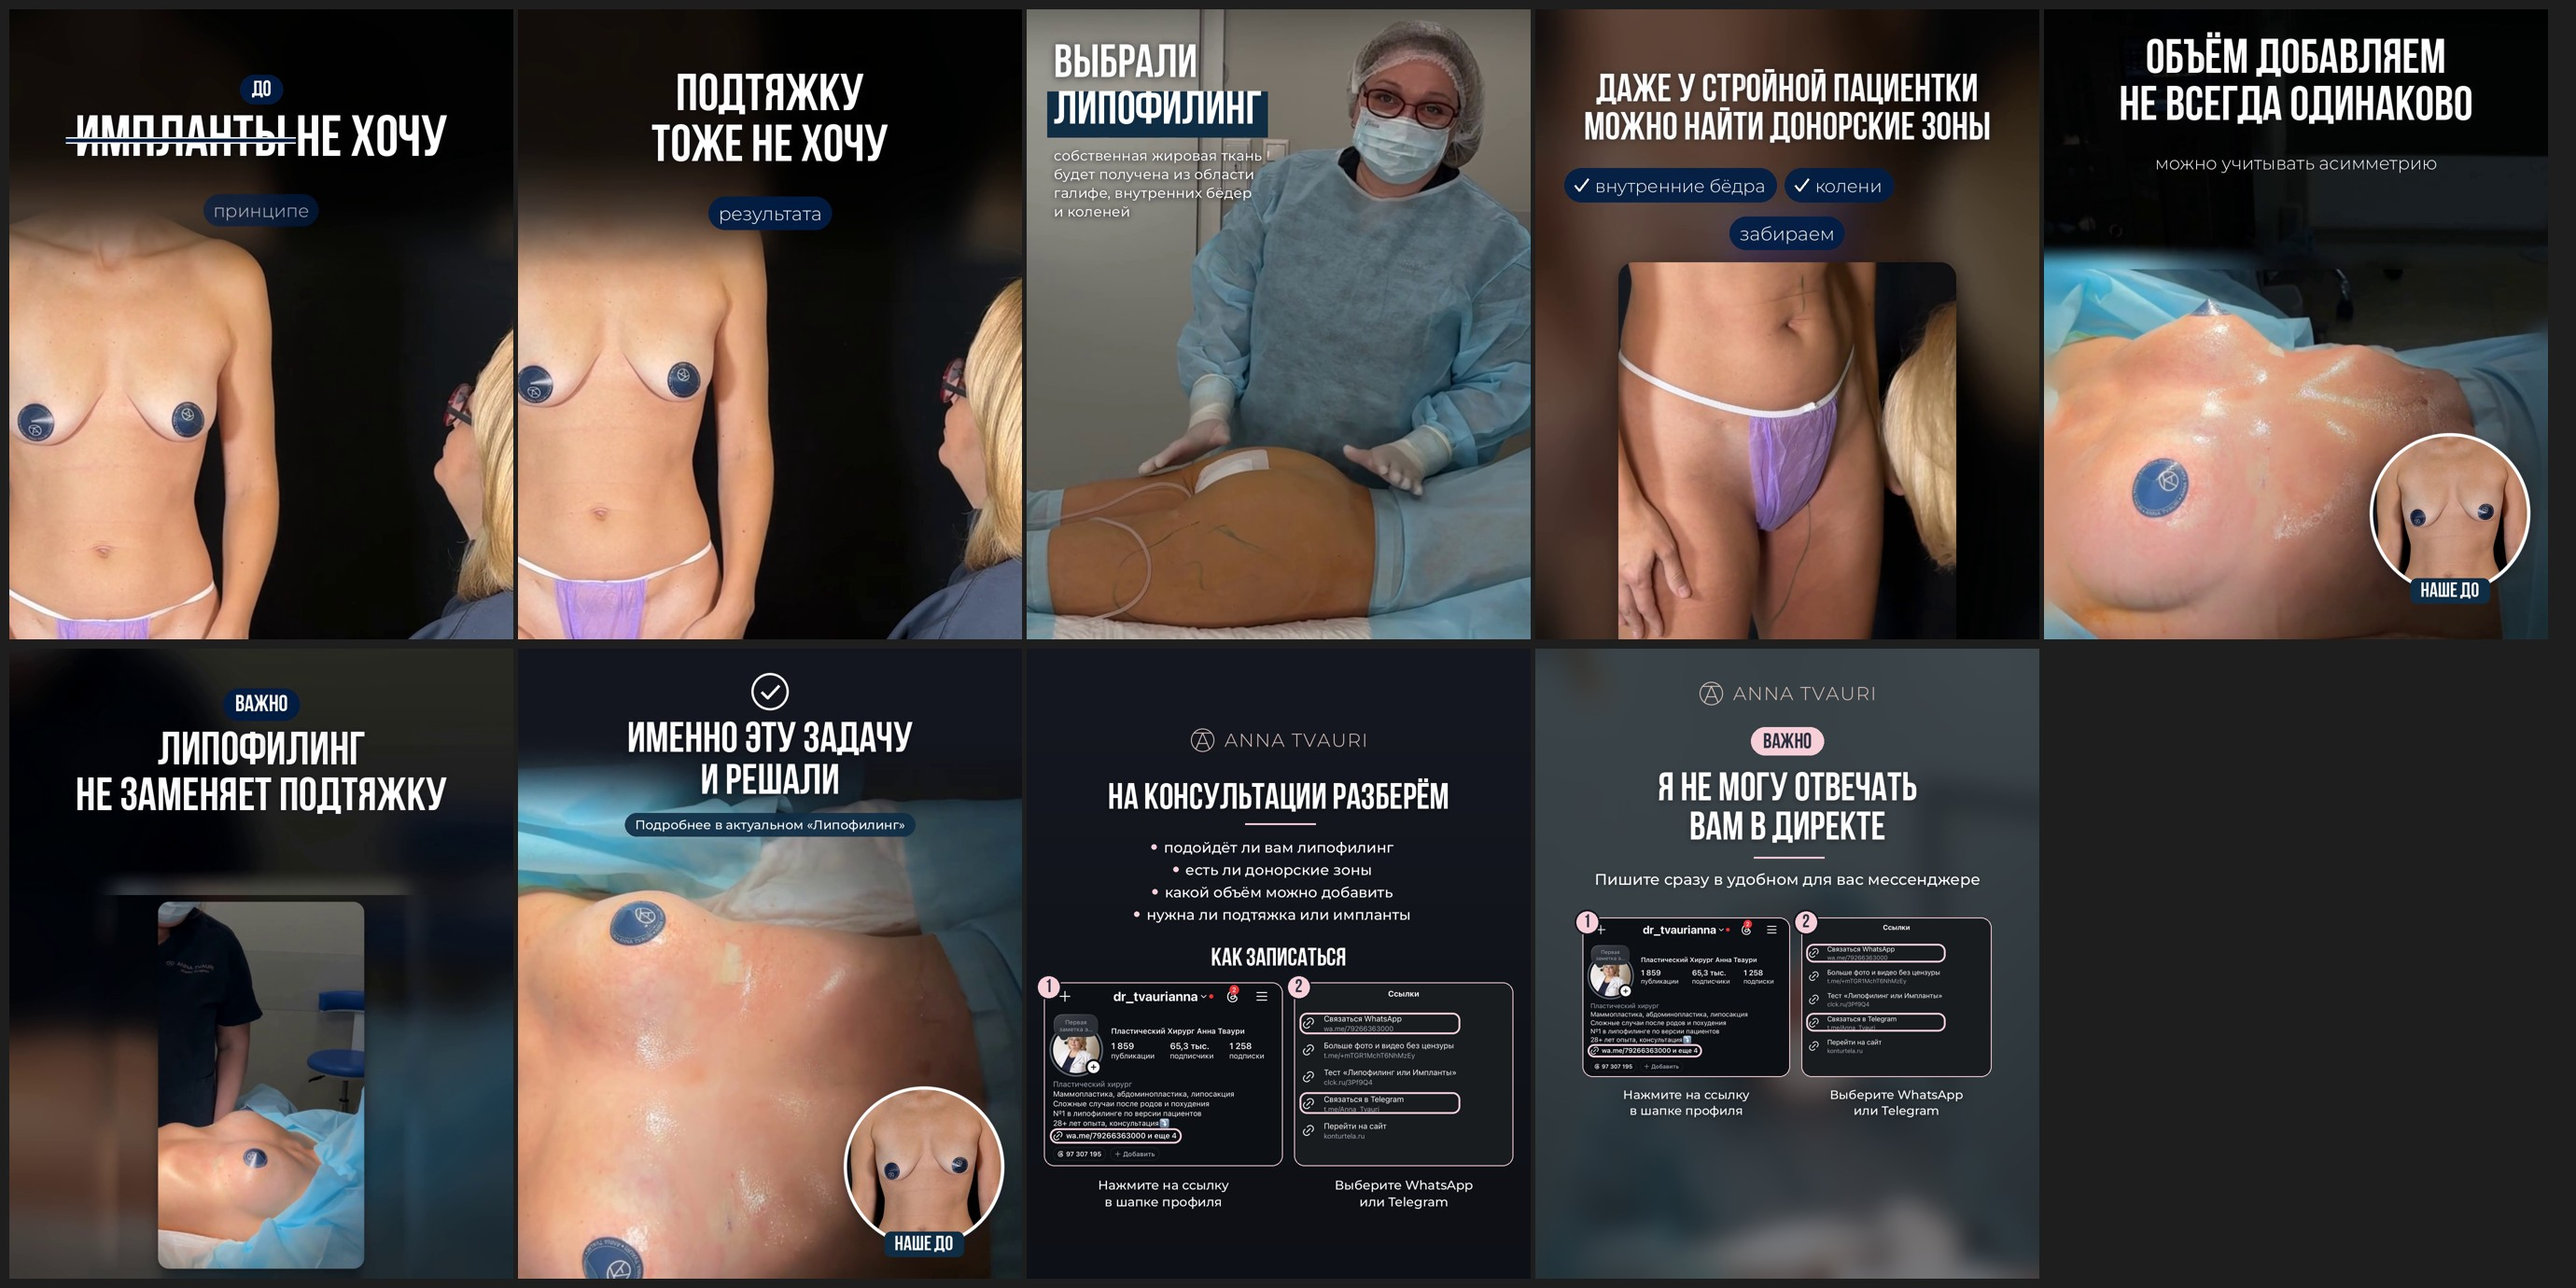
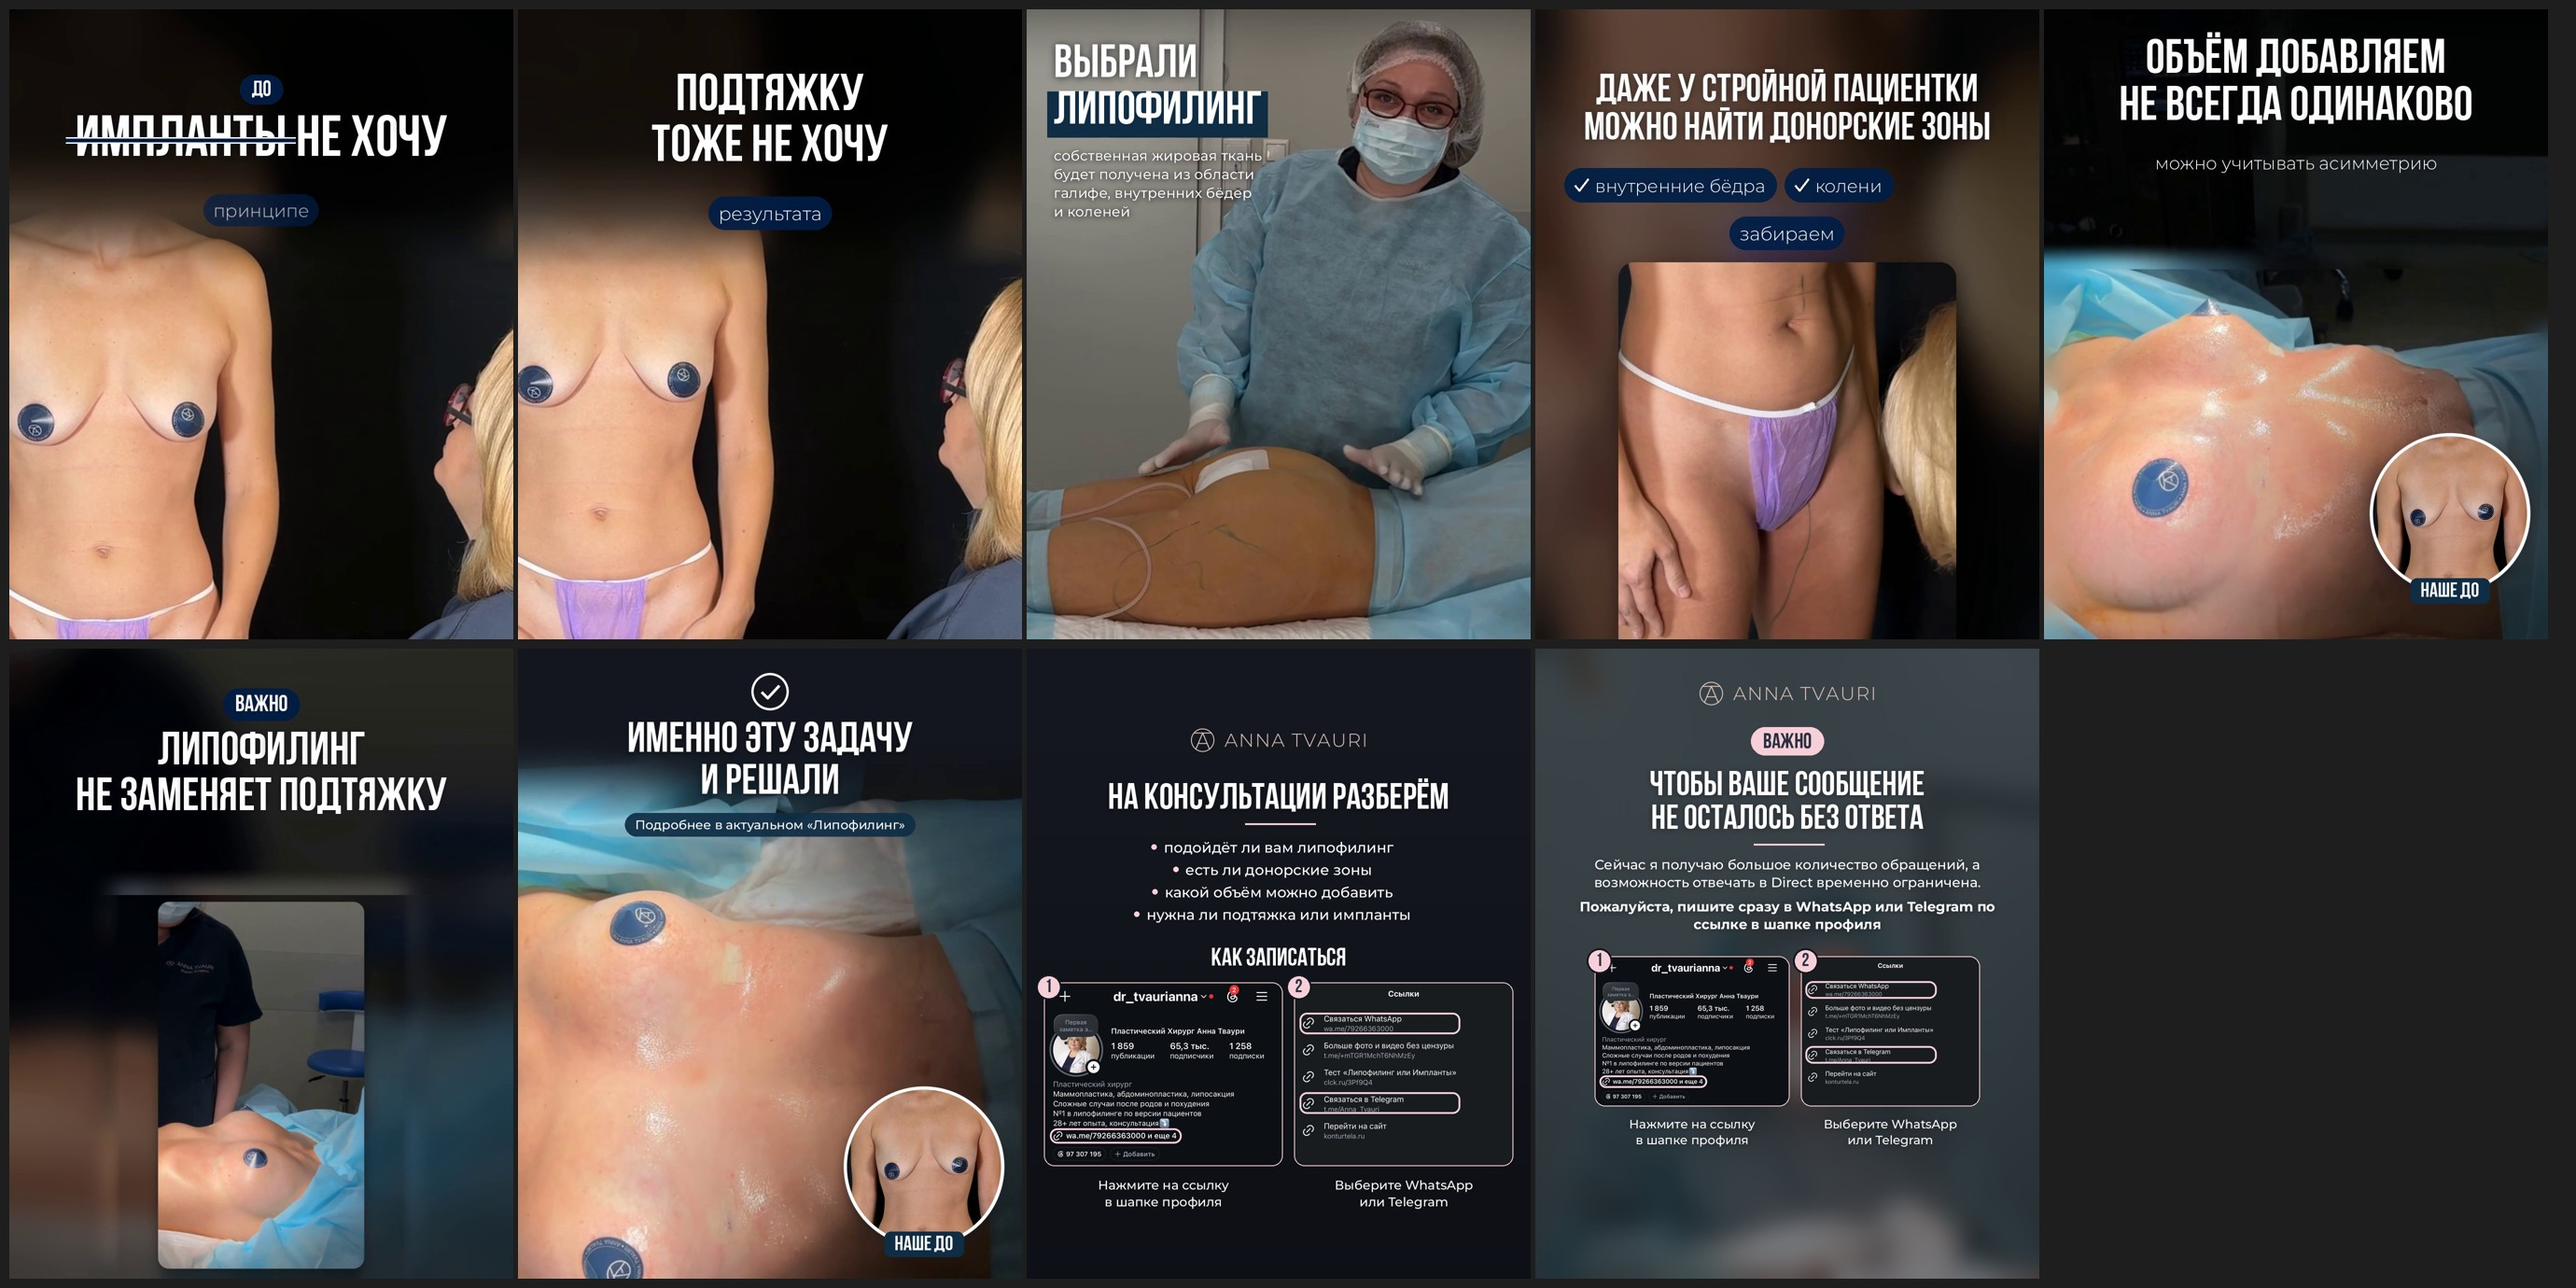
Lipofilling carousel: slide 9 new copy (so your message gets an answer)
Claude-Session: https://claude.ai/code/session_01XB7jWmRDxB52StXcRzXaWE

Changed region(s): [[0.592, 0.592, 0.779, 0.9036]]

diff --git a/tools/carousel_lipofilling.py b/tools/carousel_lipofilling.py
@@ -268,9 +268,11 @@ def important():
     f = ct.bebas(46); t = "ВАЖНО"; tw = f.getlength(t); y = 168
     d.rounded_rectangle(((W - tw) / 2 - 26, y, (W + tw) / 2 + 26, y + 60), radius=30, fill=LILAC_D + (255,))
     d.text((W / 2, y + 33), t, font=f, fill=ct.INK, anchor="mm")
-    y = ct.Block(W - 2 * ct.MARGIN, "center").head("Я не могу отвечать\nвам в директе", 86, 18).rule(0.14, 24) \
-        .body("Пишите сразу в удобном для вас мессенджере", 33, 0).draw(c, ct.MARGIN, y + 92)
-    y = booking_steps(c, y + 60)
+    y = ct.Block(W - 2 * ct.MARGIN + 40, "center").head("Чтобы ваше сообщение\nне осталось без ответа", 74, 16).rule(0.14, 22) \
+        .body("Сейчас я получаю большое количество обращений, а возможность отвечать в Direct временно ограничена.", 29, 14) \
+        .body("Пожалуйста, пишите сразу в WhatsApp или Telegram по ссылке в шапке профиля", 29, 0, wght=700) \
+        .draw(c, ct.MARGIN - 20, y + 90)
+    y = booking_steps(c, y + 50, hgt=320)
     ct.save_jpg(c, f"{OUT}/09_important.jpg")  # free space below the steps is left for the link
 
 
